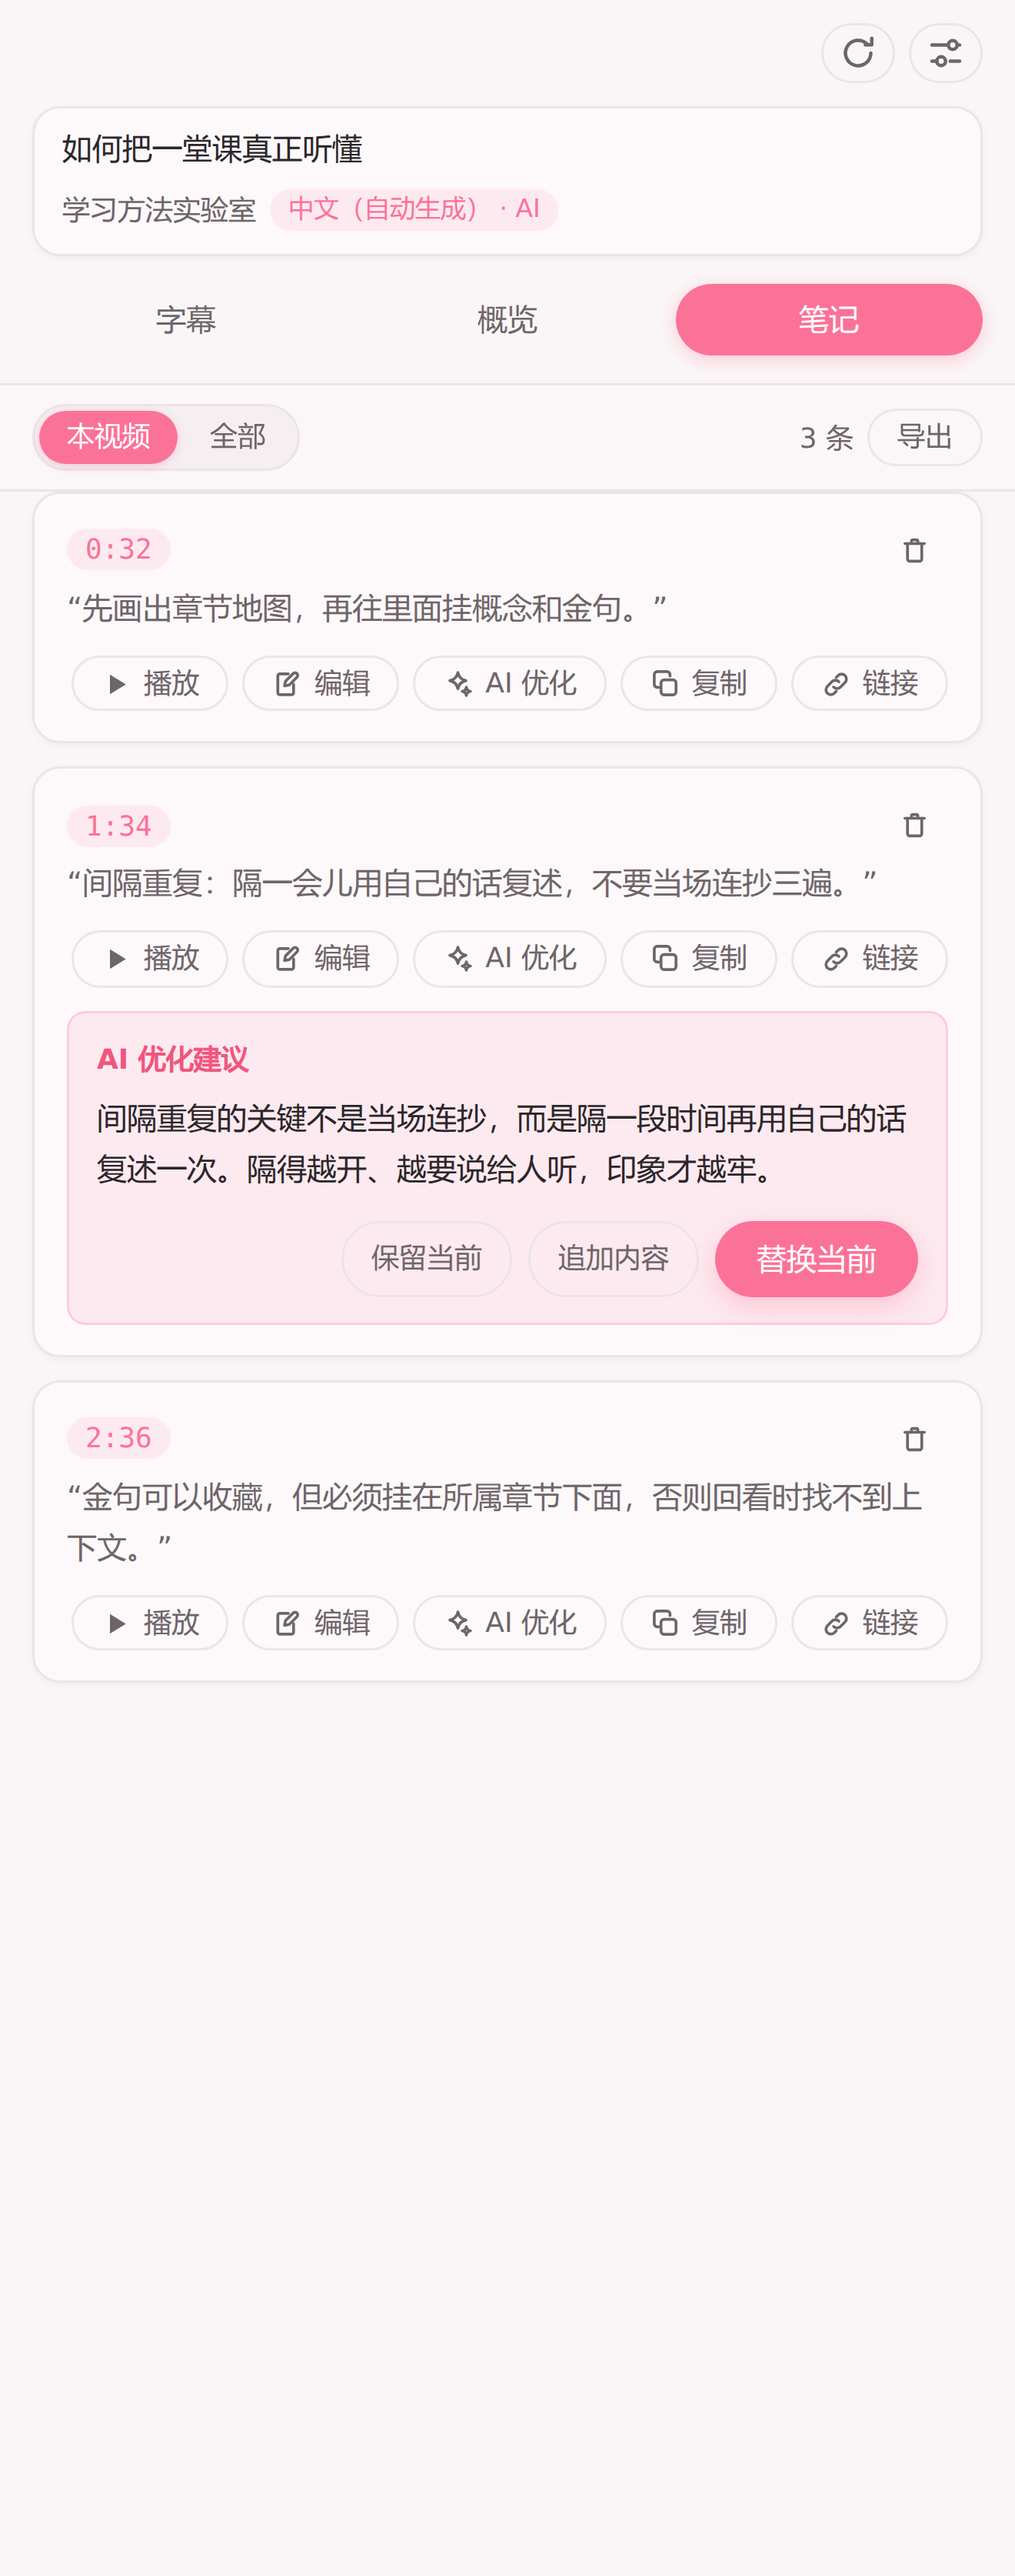
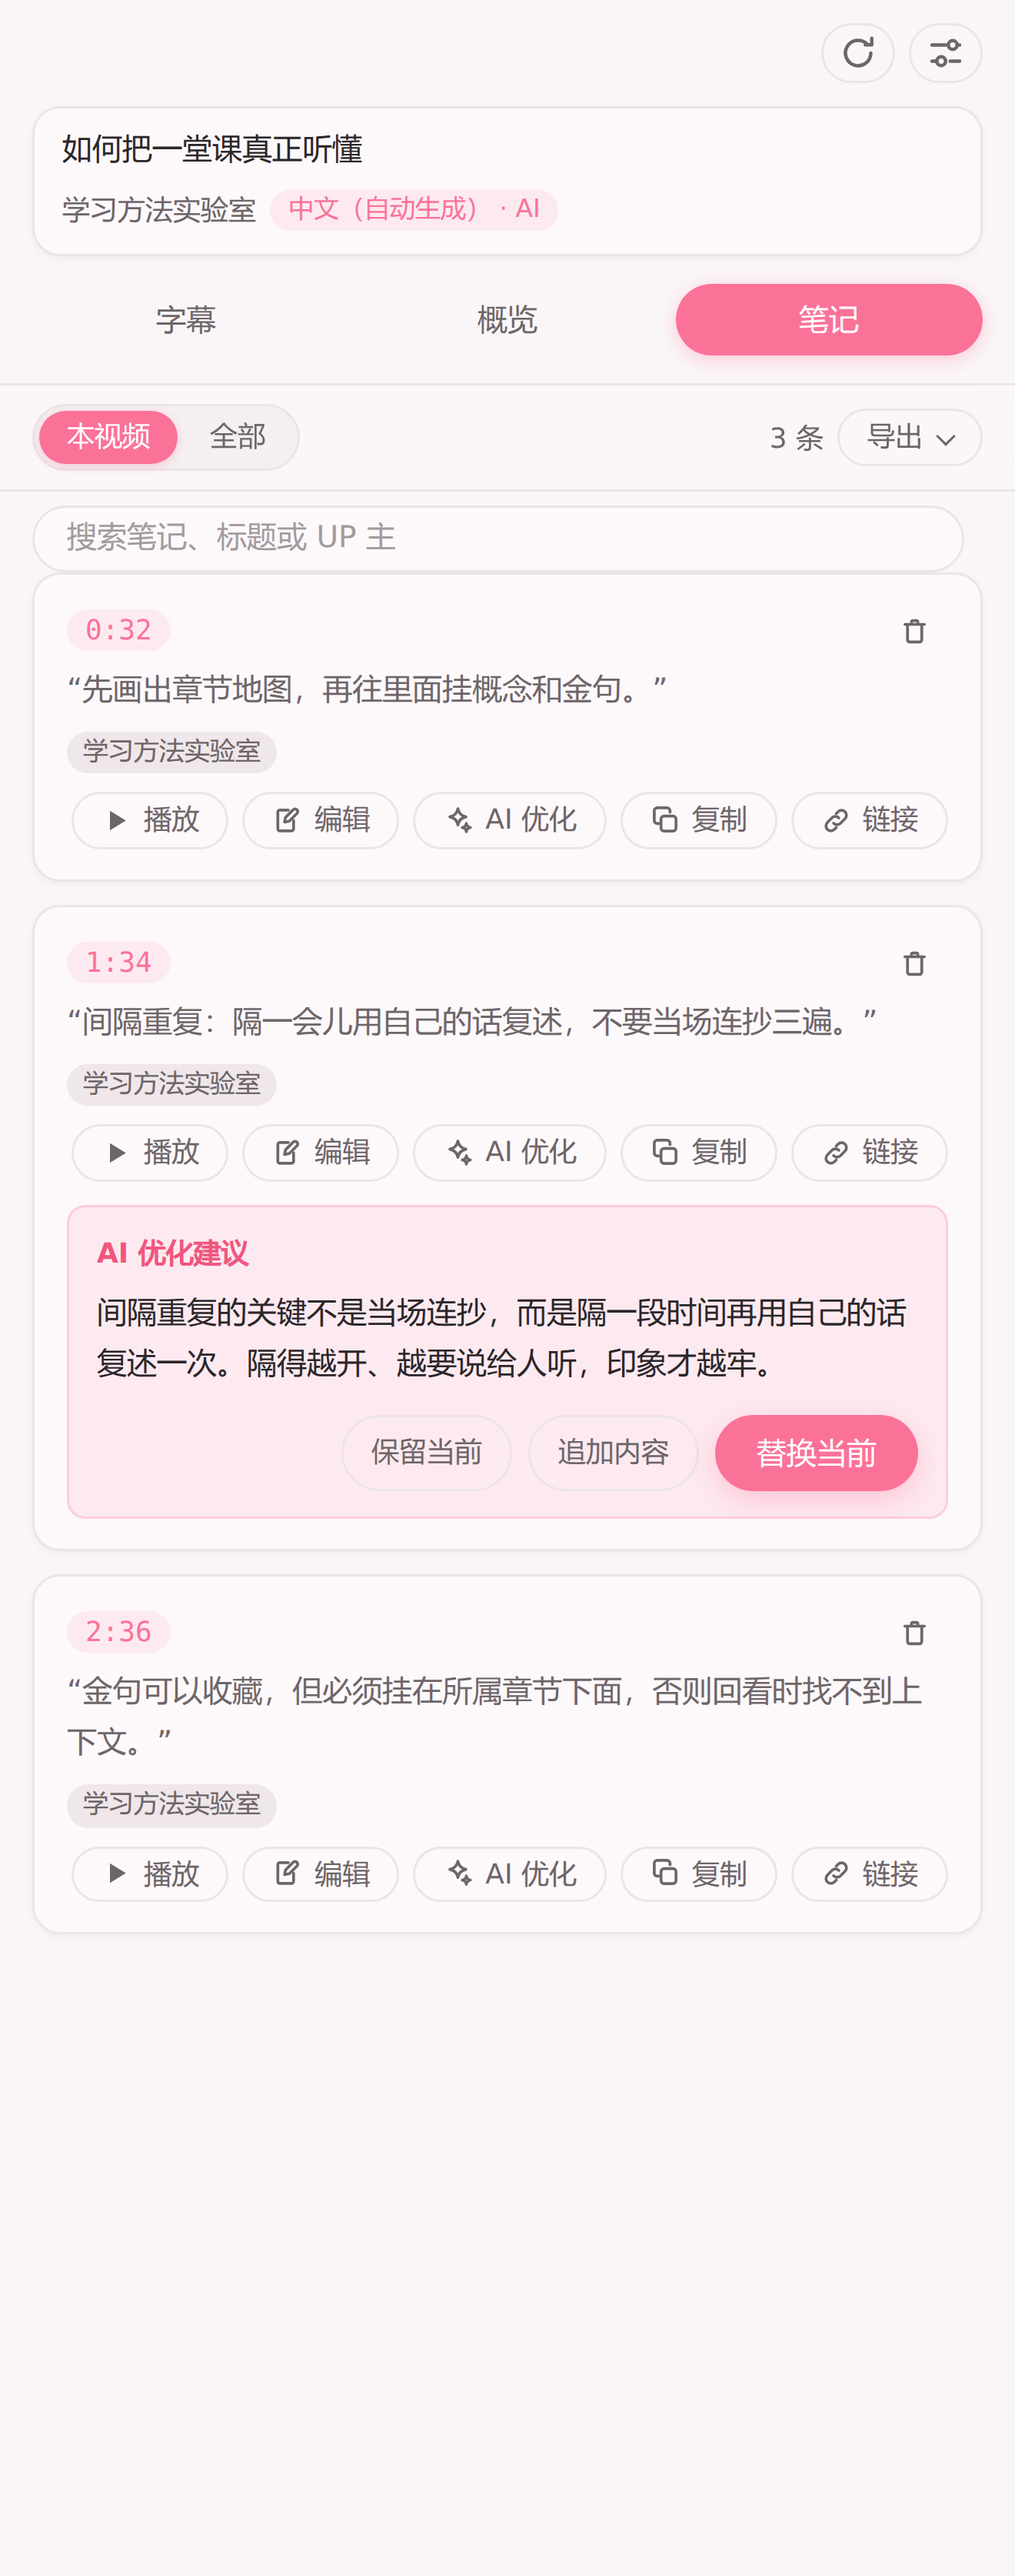
准备 0.3.0 商店更新：刷新截图与稿件。
商店图上限改为 Chrome 5 张、Edge 6 张；认证说明留空，与前几个版本一致。

diff --git a/scripts/capture-sidepanel.js b/scripts/capture-sidepanel.js
@@ -8,7 +8,11 @@
  *   npx playwright install chromium
  *   node scripts/capture-sidepanel.js
  *
- * 输出：imgs/transcript.png、overview.png、explain.png、notes.png、notes-refine.png
+ * 输出 README 用的竖版原图。商店合成图最多 6 张（Chrome 5 / Edge 6），
+ * 由 scripts/make-store-screenshots.py 从这里挑选，不要直接往商店目录加第 7 张。
+ *
+ * 输出：imgs/transcript.png、overview.png、explain.png、notes.png、notes-refine.png、
+ *       notes-search.png、learning-export.png
  */
 "use strict";
 
@@ -167,6 +171,48 @@ const NOTES = [
   },
 ];
 
+// 「全部」范围和笔记搜索只有跨视频才看得出意义：同一个 UP 主下有几条、
+// 别的 UP 主该被滤掉。这些笔记不属于当前视频，桩会按 bvid 把它们挡在
+// 「本视频」之外，所以前几张截图的内容不受影响。
+const OTHER_NOTES = [
+  {
+    id: "note_4",
+    bvid: "BV1cs4y1B7Xk",
+    page: 1,
+    timestamp: "3:12",
+    timestampSeconds: 192,
+    timestampedUrl: "https://www.bilibili.com/video/BV1cs4y1B7Xk?t=192",
+    text: "复述要说给人听。说不顺，就是还没真懂。",
+    videoTitle: "为什么看过的视频记不住",
+    ownerName: "学习方法实验室",
+    createdAt: 4,
+  },
+  {
+    id: "note_5",
+    bvid: "BV1Qq4y1H7Zt",
+    page: 1,
+    timestamp: "5:40",
+    timestampSeconds: 340,
+    timestampedUrl: "https://www.bilibili.com/video/BV1Qq4y1H7Zt?t=340",
+    text: "先把问题列出来再看视频，注意力会自己收敛到答案上。",
+    videoTitle: "带着问题看视频",
+    ownerName: "学习方法实验室",
+    createdAt: 5,
+  },
+  {
+    id: "note_6",
+    bvid: "BV1xy4y1K7Qd",
+    page: 1,
+    timestamp: "0:55",
+    timestampSeconds: 55,
+    timestampedUrl: "https://www.bilibili.com/video/BV1xy4y1K7Qd?t=55",
+    text: "工作记忆一次只放得下三四块，超了就必须先写下来。",
+    videoTitle: "工作记忆的容量",
+    ownerName: "认知实验室",
+    createdAt: 6,
+  },
+];
+
 const FIXTURE = {
   bvid: BVID,
   url: `https://www.bilibili.com/video/${BVID}`,
@@ -185,7 +231,7 @@ const FIXTURE = {
     translated: TRANSLATED,
     analysis: ANALYSIS,
   },
-  notes: NOTES,
+  notes: [...NOTES, ...OTHER_NOTES],
 };
 
 const SHOTS = [
@@ -194,6 +240,8 @@ const SHOTS = [
   "explain.png",
   "notes.png",
   "notes-refine.png",
+  "notes-search.png",
+  "learning-export.png",
 ];
 const LEGACY_SHOTS = ["字幕.png", "概览.png", "解释.png", "笔记.png"];
 
@@ -357,7 +405,13 @@ async function main() {
         getURL: (file) => file,
         async sendMessage(message) {
           if (message?.action === "fetchTranscript") return fixture.transcript;
-          if (message?.action === "getNotes") return { success: true, notes: fixture.notes };
+          if (message?.action === "getNotes") {
+            // 与 background 一致：带 bvid 是「本视频」，不带是「全部」。
+            const notes = message.bvid
+              ? fixture.notes.filter((note) => note.bvid === message.bvid)
+              : fixture.notes;
+            return { success: true, notes };
+          }
           if (message?.action === "checkVideoAvailable") return { available: true };
           if (message?.action === "explainSelection") {
             return {
@@ -371,7 +425,10 @@ async function main() {
         onMessage: empty,
         openOptionsPage() {},
       },
-      storage: { local: { get: async () => ({}) } },
+      storage: {
+        local: { get: async () => ({}) },
+        onChanged: empty,
+      },
     };
   }, FIXTURE);
 
@@ -450,6 +507,36 @@ async function main() {
   await page.waitForSelector(".note-ai-draft:not([hidden]) .note-ai-draft-text");
   await fitPanel(page);
   await shot(page, "notes-refine.png");
+
+  // 按 UP 主搜「全部」：命中跨了三个视频，另一个 UP 主的那条被滤掉，
+  // 计数上的 5/6 正好说明这是在全部笔记里筛，而不是只看当前视频。
+  await page.click("#notesScopeAll");
+  await page.waitForFunction(
+    () => document.querySelectorAll("#notesList .note").length === 6,
+  );
+  await page.fill("#notesSearchInput", "学习方法实验室");
+  await page.waitForFunction(
+    () => document.getElementById("notesSearchCount").textContent.includes("条匹配"),
+  );
+  await setDraftsVisible(page, false);
+  await freezePlayback(page);
+  await fitPanel(page);
+  await shot(page, "notes-search.png");
+
+  // 导出菜单里的「学习稿」只在「本视频」下出现，先切回去再展开。
+  await page.fill("#notesSearchInput", "");
+  await page.click("#notesScopeVideo");
+  await page.waitForFunction(
+    () => document.querySelectorAll("#notesList .note").length === 3,
+  );
+  await setDraftsVisible(page, false);
+  await freezePlayback(page);
+  await fitPanel(page);
+  await page.evaluate(() => {
+    document.getElementById("notesExportMenu").open = true;
+  });
+  await page.waitForTimeout(120);
+  await shot(page, "learning-export.png");
 
   await browser.close();
   server.close();

diff --git a/STORE-LISTING.md b/STORE-LISTING.md
@@ -26,17 +26,27 @@ dist/digest-for-bilibili-0.3.0.zip
 
 Chrome 开发者后台与 Edge 合作伙伴中心都上传这一份。ZIP 顶层必须是 `manifest.json`。
 
-### 商店截图（1280×800，按这个顺序替换）
+### 商店截图（1280×800）
+
+硬上限：Chrome 5 张、Edge 6 张。商店图只维护这 6 张，多一张传不上去。
+
+Chrome 按这个顺序替换：
 
 ```text
 store/screenshots/01-transcript.png
 store/screenshots/02-overview.png
 store/screenshots/03-explain.png
-store/screenshots/04-notes.png
-store/screenshots/05-notes-refine.png
+store/screenshots/04-notes-search.png
+store/screenshots/05-learning-export.png
 ```
 
-Chrome 最多 5 张，这次正好用满。Edge 扩展徽标仍用 `store/logo-300.png`，图标仍用 `icons/icon128.png`。
+Edge 在上面五张之后追加第 6 张：
+
+```text
+store/screenshots/06-notes-refine.png
+```
+
+Edge 扩展徽标仍用 `store/logo-300.png`，图标仍用 `icons/icon128.png`。
 
 ### 后台里要改 / 不用改
 
@@ -44,29 +54,28 @@ Chrome 最多 5 张，这次正好用满。Edge 扩展徽标仍用 `store/logo-3
 | --- | --- |
 | 安装包 | 上传上面的 zip |
 | 详细说明 | 整段替换为下面「详细说明」 |
-| 截图 | 五张全部换成新图 |
+| 截图 | Chrome 换前五张；Edge 六张全部替换 |
 | 名称、简短说明、类别、单一用途 | 不用改 |
 | 权限理由 | 不用改（权限集合没变） |
 | 数据披露 | 不用改（仍是 API 密钥 + 网站内容） |
 | 隐私政策 URL | 不用改，但确认 GitHub 上已是最新 `PRIVACY.md` |
 | 远程代码 | 仍选「否」 |
-| 认证说明 | **每次提交都要换一把临时密钥**，按文末模板填 |
+| 认证说明 | 不用填。前几个版本都未向审核员提供临时密钥，本次同样不提供 |
 
 ### Chrome 应用商店
 
 1. 打开 [Chrome 开发者后台](https://chrome.google.com/webstore/devconsole) → Digest for Bilibili → 套件。
 2. 上传 `dist/digest-for-bilibili-0.3.0.zip`。
-3. 商店资讯：贴「详细说明」，截图按 01–05 顺序替换。
+3. 商店资讯：贴「详细说明」，截图按 01–05 顺序替换（Chrome 最多五张）。
 4. 隐私：核对披露与远程代码选项未被动过。
-5. 填认证说明（临时密钥 + 一条免登录就能出字幕的 BV）。
-6. 提交审核。可选「审核通过后再发布」，两边进度容易对齐。
+5. 提交审核。可选「审核通过后再发布」，两边进度容易对齐。认证说明栏留空。
 
 ### Microsoft Edge 加载项
 
 1. 打开 [Edge 合作伙伴中心](https://partner.microsoft.com/dashboard) → Digest for Bilibili。
 2. 上传**同一份** zip。
-3. 产品详情里替换详细说明和五张截图；300×300 徽标不用动。
-4. 隐私与认证说明与 Chrome 相同。
+3. 产品详情里替换详细说明；截图按 01–06 顺序替换（前五张与 Chrome 相同，第 6 张为笔记二次优化）；300×300 徽标不用动。
+4. 隐私披露与 Chrome 相同。认证说明栏留空。
 5. 提交审核。
 
 ### 给审核员的变更摘要（可选，有「版本说明」栏再贴）
@@ -82,7 +91,7 @@ Chrome 最多 5 张，这次正好用满。Edge 扩展徽标仍用 `store/logo-3
 - 章节概览中生成失败的分块可单独补生成，不必整份重来
 - 设置页新增界面字号，可在 80% 至 160% 之间自定义
 
-权限、主机范围和数据类别与 0.2.0 相同。验证步骤见认证说明。
+权限、主机范围和数据类别与 0.2.0 相同。
 ```
 
 **不要在说明里罗列模型服务商的名字。** 0.1.0 首次提交时，「使用方法」里列了
@@ -166,10 +175,11 @@ Reads the subtitle track of the Bilibili video the user is currently watching an
 | 字幕截图 | 1280×800 | `store/screenshots/01-transcript.png` |
 | 概览截图 | 1280×800 | `store/screenshots/02-overview.png` |
 | 划词解释截图 | 1280×800 | `store/screenshots/03-explain.png` |
-| 笔记截图 | 1280×800 | `store/screenshots/04-notes.png` |
-| 笔记 AI 优化截图 | 1280×800 | `store/screenshots/05-notes-refine.png` |
+| 笔记搜索截图 | 1280×800 | `store/screenshots/04-notes-search.png` |
+| 学习稿导出截图 | 1280×800 | `store/screenshots/05-learning-export.png` |
+| 笔记 AI 优化截图（Edge 追加） | 1280×800 | `store/screenshots/06-notes-refine.png` |
 
-界面变化后，先跑 `node scripts/capture-sidepanel.js` 重截 `imgs/` 下五张原图，再运行：
+界面变化后，先跑 `node scripts/capture-sidepanel.js` 重截 README 原图，再运行：
 
 ```bash
 python3 scripts/make-store-screenshots.py
@@ -253,21 +263,4 @@ https://github.com/biuworks/bilibili-digest/blob/main/PRIVACY.md
 - [ ] 每项权限理由均已填写。
 - [ ] 数据披露与 `PRIVACY.md` 一致。
 - [ ] 远程代码选择“否”。
-- [ ] 认证说明附带可验证的视频、步骤和临时测试凭据。
-
-## 提交时填的「认证说明」
-
-AI 功能要密钥才跑得起来，不给审核员一把钥匙，多半会以「功能无法验证」被退。
-按下面这个形状填，占位的地方每次提交前换成当次可用的值：
-
-```text
-本扩展不提供模型服务，需要用户自备 API 密钥，因此附上一把测试用的。
-
-1. 安装后会自动打开设置页，服务商选「<预设名>」，密钥填：<临时密钥>
-2. 打开这条带字幕的视频：https://www.bilibili.com/video/<BV 号>
-3. 点工具栏上的扩展图标打开侧边栏，字幕会自动加载（这一步不需要密钥）
-4. 切到「概览」标签点「生成概览」，即可验证需要密钥的 AI 功能
-
-字幕来自 B 站官方接口。部分视频的字幕需要 B 站登录态才可见，上面这条
-无需登录即可取到字幕。测试密钥在审核期间有效，通过后会被吊销。
-```
+- [ ] 认证说明栏留空，不向审核员提供临时密钥。
